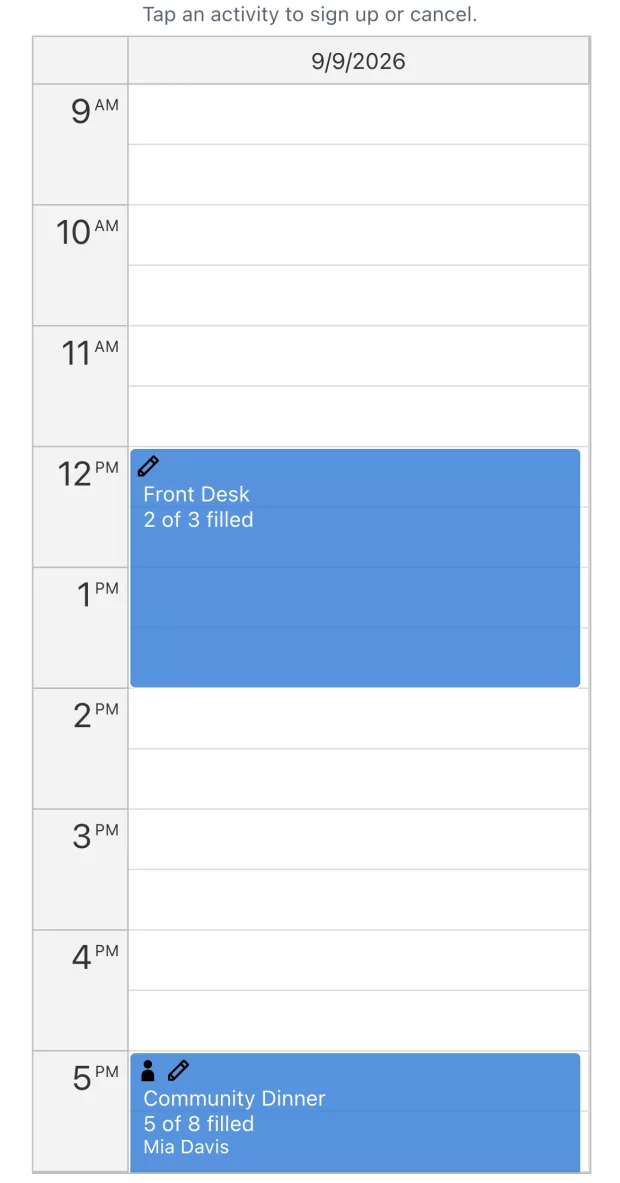
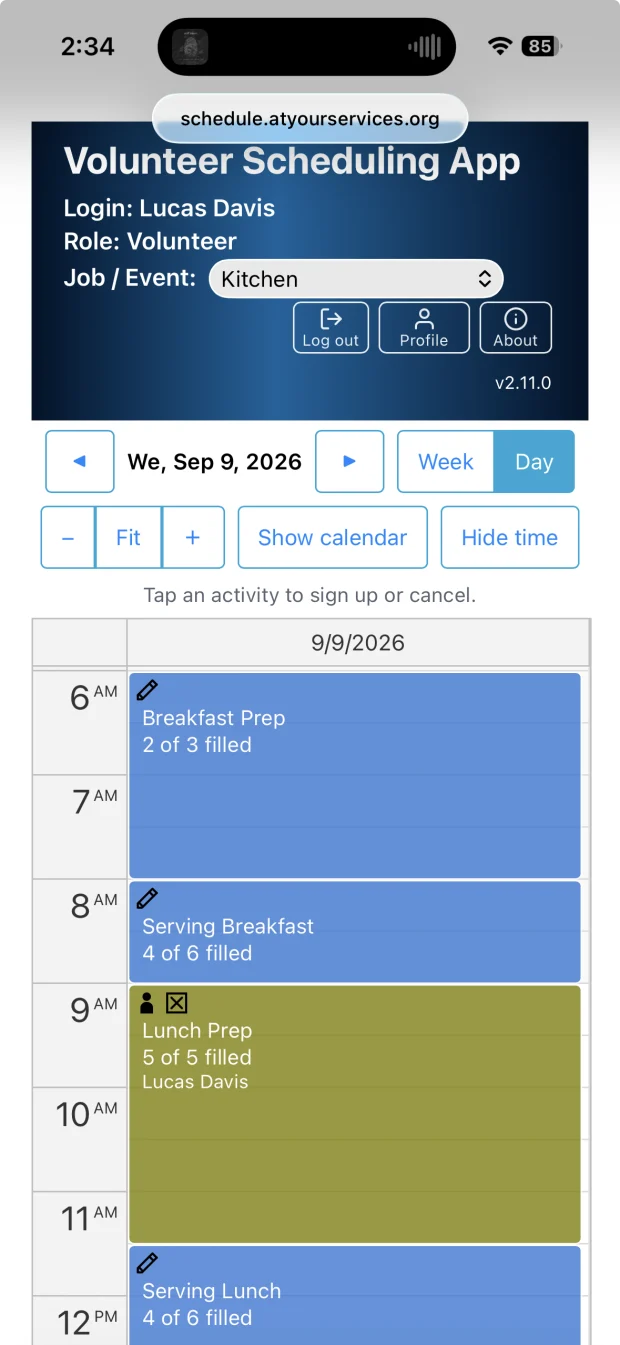
A real phone beats a browser pretending to be one
Replaces the synthetic 390px-viewport capture with Russ's own iPhone screenshot.
The difference is not resolution, it is the chrome: a status bar, a Dynamic
Island and a Safari pill reading schedule.atyourservices.org. Headless Chrome
cannot produce any of that, and it is what makes the frame read as a phone
someone is holding rather than a narrow browser window.

The day is better too - four Kitchen shifts at 2 of 3, 4 of 6, 5 of 5 and 4 of 6
instead of two shifts separated by three empty hours, and the full one renders
olive against the blue, so the colour coding shows without being described.

Shown at 345px rather than 290px. At the smaller size "2 of 3 filled" was there
but not readable, which defeats the point of including it; 345px still fits a
390px phone screen inside .wrap's padding with no sideways scroll.

Claude-Session: https://claude.ai/code/session_01FjnpkqmfL3BuWbw1TRE1RX

diff --git a/index.html b/index.html
@@ -149,8 +149,8 @@
         </ol>
         <figure class="phone-shot">
           <img src="products/volunteer-phone.webp"
-               alt="A volunteer's phone showing one day: Front Desk at noon, 2 of 3 filled, and Community Dinner at 5pm, 5 of 8 filled with their own family member's name on it"
-               width="620" height="1183" loading="lazy"
+               alt="A volunteer's phone showing one day in the Kitchen: Breakfast Prep 2 of 3 filled, Serving Breakfast 4 of 6, Lunch Prep full at 5 of 5 with their own name on it, Serving Lunch 4 of 6"
+               width="620" height="1345" loading="lazy"
                onerror="this.closest('figure').style.display='none'" />
           <figcaption>
             <strong>What a volunteer sees on their phone.</strong> Each shift says how full it is —

diff --git a/styles.css b/styles.css
@@ -109,7 +109,7 @@ a { color: var(--accent); }
 /* the volunteer's own phone, so a coordinator can see what they are asking people to use. Narrow and
    tall, so it is capped rather than stretched to the column - a 620px-wide grab blown up looks fake. */
 .phone-shot { margin: 24px 0 0; display: flex; flex-direction: column; align-items: center; text-align: center; }
-.phone-shot img { width: 100%; max-width: 290px; height: auto; display: block;
+.phone-shot img { width: 100%; max-width: 345px; height: auto; display: block;
   border-radius: 14px; border: 1px solid var(--border); box-shadow: 0 10px 30px rgba(1, 19, 41, 0.15); }
 .phone-shot figcaption { margin-top: 12px; max-width: 460px; font-size: 0.93rem; color: var(--muted); line-height: 1.5; }
 
